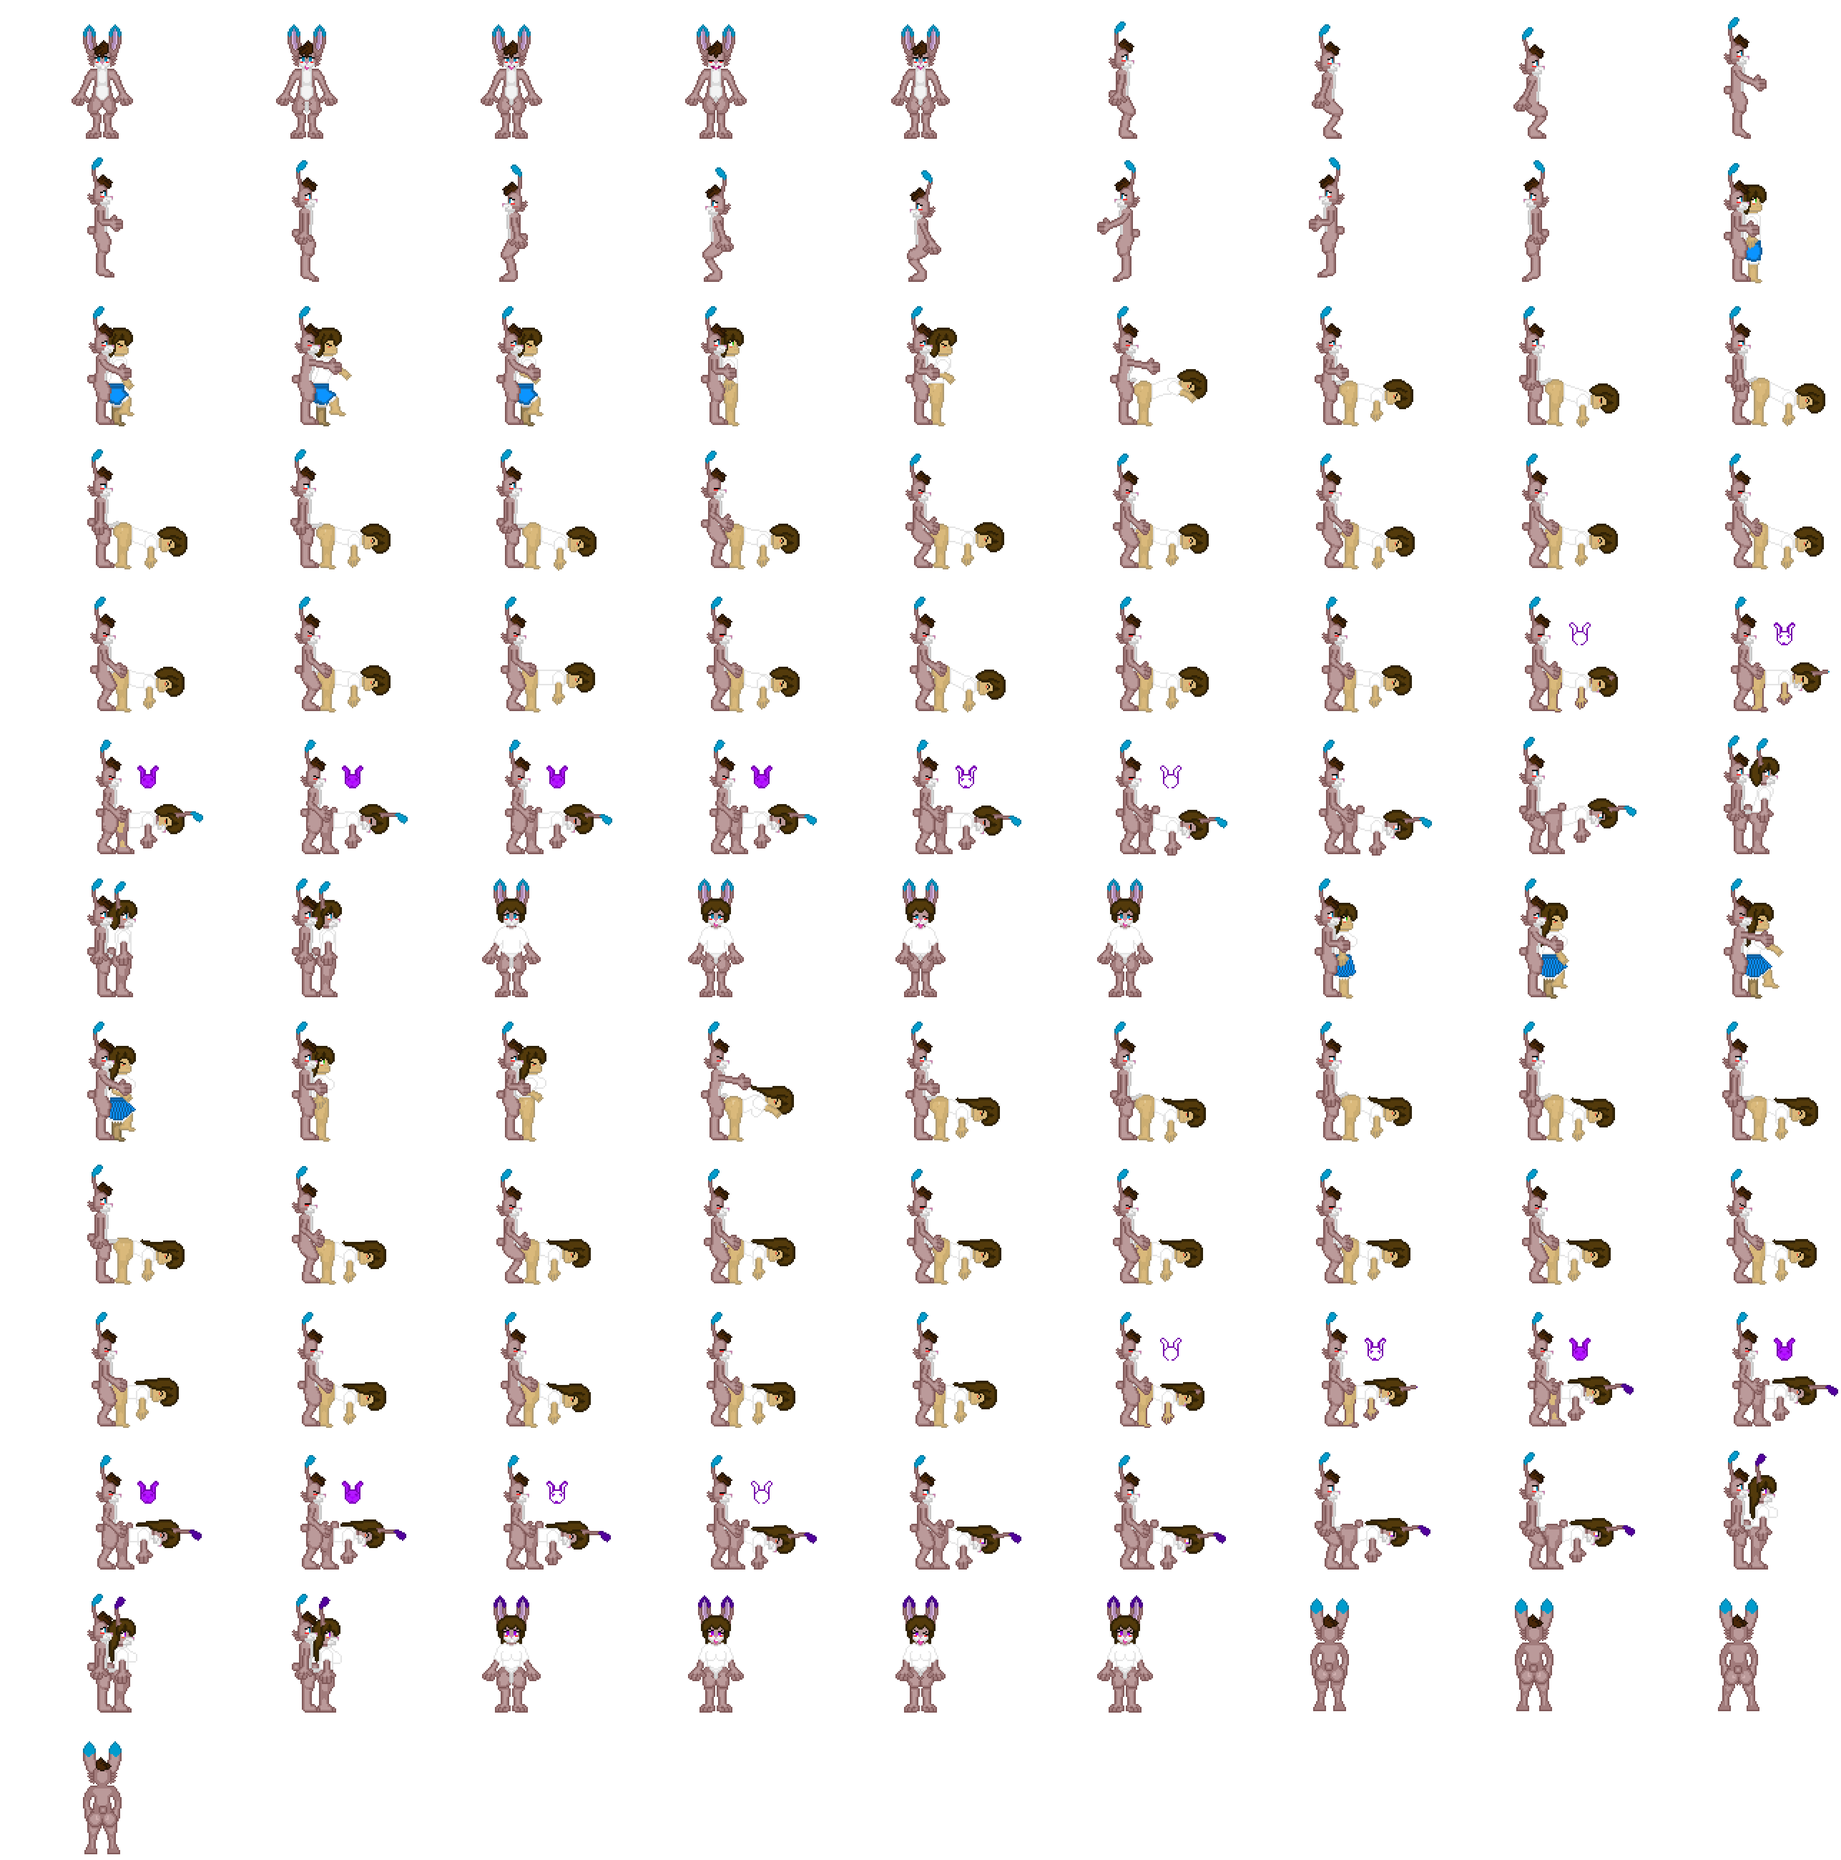
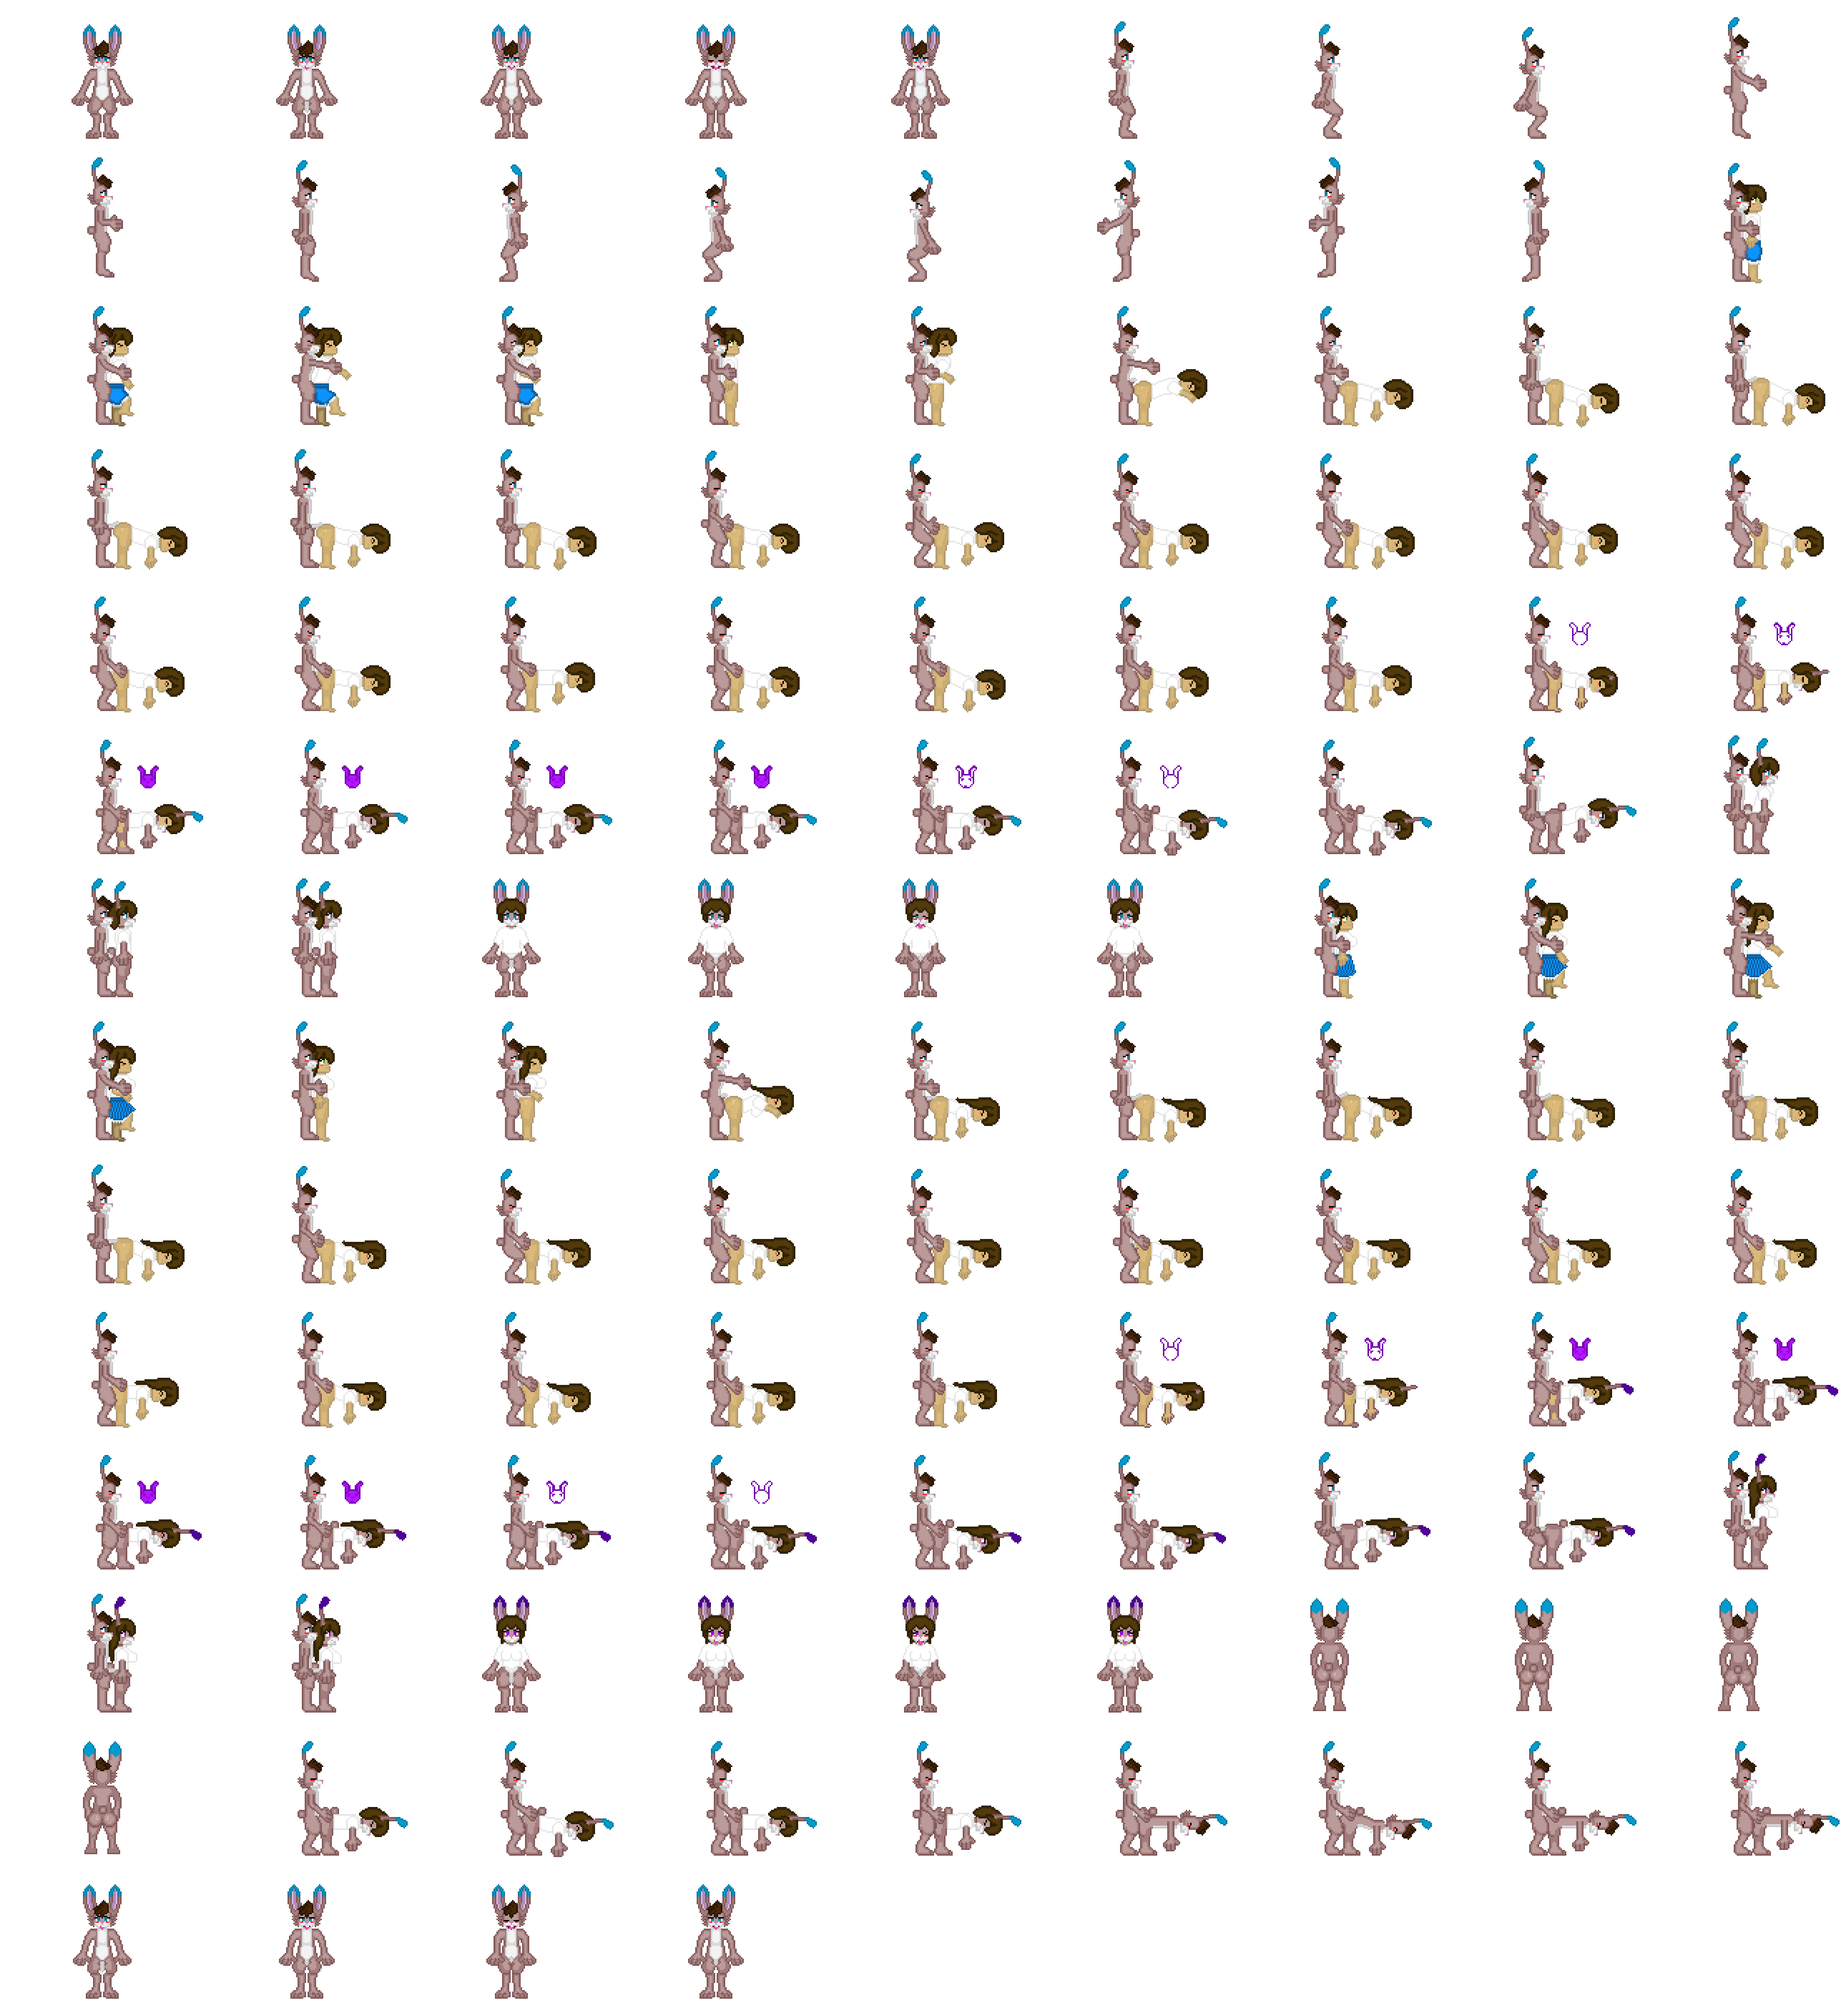
ADDED RABBIT MOD <3

diff --git a/scripts/enemyScripts/rabbit.js b/scripts/enemyScripts/rabbit.js
@@ -39,10 +39,11 @@ class rabbit extends enemy {
         this.enemyHP = 35;
 
         
-
+        
         //defines rabbit animations based on the players sex.
         if(this.enemySex === 0) {
             this.anims.create({ key: 'rabbitIdle', frames: this.anims.generateFrameNames('rabbitMale', { start: 1, end: 4 }), frameRate: 8, repeat: -1 });
+            this.anims.create({ key: 'rabbitIdleRailed', frames: this.anims.generateFrameNames('rabbitMale', { start: 117, end: 120 }), frameRate: 6, repeat: -1 });
             this.anims.create({ key: 'rabbitHopRightStart', frames: this.anims.generateFrameNames('rabbitMale', { start: 5, end: 7 }), frameRate: 8, repeat: 0 });
             this.anims.create({ key: 'rabbitHopRightInAir', frames: this.anims.generateFrameNames('rabbitMale', { start: 8, end: 10 }), frameRate: 8, repeat: 0 });
             this.anims.create({ key: 'rabbitHopLeftStart', frames: this.anims.generateFrameNames('rabbitMale', { start: 11, end: 13 }), frameRate: 8, repeat: 0 });
@@ -55,8 +56,10 @@ class rabbit extends enemy {
                 this.anims.create({ key: 'rabbitRail1', frames: this.anims.generateFrameNames('rabbitMale', { start: 39, end: 42 }), frameRate: 8, repeat: -1 });
                 this.anims.create({ key: 'rabbitRail2', frames: this.anims.generateFrameNames('rabbitMale', { start: 39, end: 42 }), frameRate: 12, repeat: -1 });
                 this.anims.create({ key: 'rabbitRail3', frames: this.anims.generateFrameNames('rabbitMale', { start: 39, end: 42 }), frameRate: 14, repeat: -1 });
-                this.anims.create({ key: 'rabbitClimax', frames: this.anims.generateFrameNames('rabbitMale', { start: 42, end: 55 }), frameRate: 8, repeat: 0 });
+                this.anims.create({ key: 'rabbitRail4', frames: this.anims.generateFrameNames('rabbitMale', { start: 109, end: 112}), frameRate: 8, repeat: -1 });
+                this.anims.create({ key: 'rabbitClimax', frames: this.anims.generateFrameNames('rabbitMale', { start: 42, end: 51 }), frameRate: 8, repeat: 0 });
                 this.anims.create({ key: 'rabbitGameover', frames: this.anims.generateFrameNames('rabbitMale', { start: 56, end: 59 }), frameRate: 6, repeat: -1 }); 
+                this.anims.create({ key: 'rabbitsRailing', frames: this.anims.generateFrameNames('rabbitMale', { start: 113, end: 116}), frameRate: 8, repeat: -1 });
             }else{
                 this.anims.create({ key: 'rabbitGrab', frames: this.anims.generateFrameNames('rabbitMale', { start: 60, end: 63 }), frameRate: 6, repeat: -1 });
                 this.anims.create({ key: 'rabbitShove', frames: this.anims.generateFrameNames('rabbitMale', { start: 64, end: 68 }), frameRate: 8, repeat: 0 });
@@ -68,7 +71,7 @@ class rabbit extends enemy {
                 this.anims.create({ key: 'rabbitClimax', frames: this.anims.generateFrameNames('rabbitMale', { start: 85, end: 100 }), frameRate: 8, repeat: 0 });
                 this.anims.create({ key: 'rabbitGameover', frames: this.anims.generateFrameNames('rabbitMale', { start: 101, end: 104 }), frameRate: 6, repeat: -1 }); 
             }
-             
+            
         }else{
             this.anims.create({ key: 'rabbitIdle', frames: this.anims.generateFrameNames('rabbitFemale', { start: 1, end: 4 }), frameRate: 8, repeat: -1 });
             this.anims.create({ key: 'rabbitHopRightStart', frames: this.anims.generateFrameNames('rabbitFemale', { start: 5, end: 7 }), frameRate: 8, repeat: 0 });
@@ -221,9 +224,40 @@ class rabbit extends enemy {
 
     // functioned called to play animation when the player is defeated by the rabbit in gameover.
     gameOver() {
+        const femalePreferance = this.scene.preferance !== 0
+
         this.setSize(70, 180, true);
         this.setOffset(180, 110);
         this.anims.play('rabbitGameover', true);
+
+        const rabbit1 = new rabbit(this.scene, this.x + 150, this.y - 30, 0, 99)
+        const rabbit2 = new rabbit(this.scene, this.x - 150, this.y - 30, 0, 101)
+        rabbit1.anims.play(femalePreferance ? 'rabbitIdle' : 'rabbitIdleRailed')
+        rabbit2.anims.play(femalePreferance ? 'rabbitIdle' : 'rabbitIdleRailed')
+        rabbit1.setGravityY(0)
+        rabbit2.setGravityY(0)
+        
+        if (femalePreferance) {
+            return
+        } 
+        
+        const railingRabbitsXCoor = this.x + 45
+        const railingRabbitsYCoor = this.y + 2
+        const railingRabbits = new rabbit(this.scene, railingRabbitsXCoor, railingRabbitsYCoor, 0, 100)
+        railingRabbits.anims.play('rabbitsRailing').on('animationrepeat', () => {
+            if (!this.onomatPlayed) {
+                this.onomatPlayed = true;
+                let randX = Math.floor((Math.random() * 15));
+                let randY = Math.floor((Math.random() * 15));
+                this.scene.heartOnomat1 = new makeText(this.scene,railingRabbitsXCoor-randX+30,railingRabbitsYCoor-randY+13,'charBubble',"@heart@");
+                this.scene.heartOnomat1.setScale(.25);
+                this.scene.heartOnomat1.textFadeOutAndDestroy(300);
+                setTimeout(() => {
+                    this.onomatPlayed = false;
+                }, 500);
+            }
+        })
+        railingRabbits.setGravityY(0)
     }
 
 
@@ -455,7 +489,7 @@ class rabbit extends enemy {
             }
 
             // if tab is pressed or the player finished the defeated animations then we call the game over scene.
-            if (this.scene.checkSkipIndicatorIsDown() || (this.playerDefeatedAnimationStage > 7 && this.scene.checkDIsDown())) {
+            if (this.scene.checkSkipIndicatorIsDown() || (this.playerDefeatedAnimationStage > 8 && this.scene.checkDIsDown())) {
                 this.scene.KeyDisplay.visible = false;
 
                 //sets enemy that defeated the player based on rabbits sex.
@@ -688,6 +722,9 @@ class rabbit extends enemy {
                     this.animationPlayed = false;
                     this.playerDefeatedAnimationStage++;
                     this.inStartDefeatedLogic = false;
+                    if (this.scene.internalView) {
+                        this.scene.internalView.destroy();
+                    }
                     this.scene.internalView = new internalView(this.scene,this.x,this.y+60,'rabbit')
                     this.scene.internalView.anims.play("rabbitPening1");
                     this.scene.internalView.setRotation(3.14);
@@ -764,11 +801,38 @@ class rabbit extends enemy {
                 this.scene.onomat.textFadeOutAndDestroy(1000);
 
                 this.anims.play('rabbitClimax').once('animationcomplete', () => {
-                    this.animationPlayed = false;
-                    this.playerDefeatedAnimationStage++;
                     this.scene.onomat.destroy();
+                    
+                    if (this.scene.playerSex === 0) {
+                        return setTimeout(() => {
+                            this.animationPlayed = false;
+                            this.playerDefeatedAnimationStage++;
+                        }, 2000)
+                    }
+                    this.animationPlayed = false;
+                    this.playerDefeatedAnimationStage += 2;
                     this.scene.internalView.destroy();
+                    
+                    //this.scene.internalView.destroy();
                 });
+            }
+        } else if (this.playerDefeatedAnimationStage === 8) {
+            this.anims.play('rabbitRail4', true);
+            this.scene.internalView.anims.play("rabbitPening4",true);
+            this.playPlapSound('plap3', 850);
+
+            let thisrabbit = this;
+            if (this.onomatPlayed === false) {
+                this.onomatPlayed = true;
+                let randX = Math.floor((Math.random() * 15));
+                let randY = Math.floor((Math.random() * 15));
+                this.scene.heartOnomat1 = new makeText(this.scene,this.x-randX+30,this.y-randY+13,'charBubble',"@heart@");
+                this.scene.heartOnomat1.visible = this.scene.onomatopoeia;
+                this.scene.heartOnomat1.setScale(.25);
+                this.scene.heartOnomat1.textFadeOutAndDestroy(300);
+                setTimeout(function () {
+                    thisrabbit.onomatPlayed = false;
+                }, 500);
             }
         }
     }

diff --git a/scripts/uiScripts/internalView.js b/scripts/uiScripts/internalView.js
@@ -31,6 +31,7 @@ class internalView extends Phaser.Physics.Arcade.Sprite{
         this.anims.create({key: 'rabbitPening1',frames: this.anims.generateFrameNames('rabbitPenning', { start: 1, end: 7 }),frameRate: 10,repeat: -1});
         this.anims.create({key: 'rabbitPening2',frames: this.anims.generateFrameNames('rabbitPenning', { start: 1, end: 7 }),frameRate: 16,repeat: -1});
         this.anims.create({key: 'rabbitPening3',frames: this.anims.generateFrameNames('rabbitPenning', { start: 1, end: 7 }),frameRate: 20,repeat: -1});
+        this.anims.create({key: 'rabbitPening4',frames: this.anims.generateFrameNames('rabbitPenning', { start: 1, end: 7 }),frameRate: 13,repeat: -1});
         this.anims.create({key: 'rabbitClimax',frames: this.anims.generateFrameNames('rabbitPenning', { start: 20, end: 28 }),frameRate: 6  ,repeat: 0});
         this.anims.create({key: 'playerClimaxInRabbit',frames: this.anims.generateFrameNames('rabbitPenned', { start: 0, end: 9 }),frameRate: 6  ,repeat: 0});
 

diff --git a/scripts/sceneScripts/sceneHeads/titleScreen.js b/scripts/sceneScripts/sceneHeads/titleScreen.js
@@ -134,6 +134,7 @@ class titleScreen extends A3SoundEffects {
                 '- PAWS AND WAIT',
                 '- WHATS GOOD SLIME',
                 '- IN DEFIANCE OF THE CURSE',
+                'STIEFELJACKAL: RABBIT GAMEOVER MODDIFICATION',
                 'KASHINDOLLY: ORTHOGRAPHER',
                 'OTPFURRY1: DONATION',
                 'TYLER RITCHIE: PATREON',
